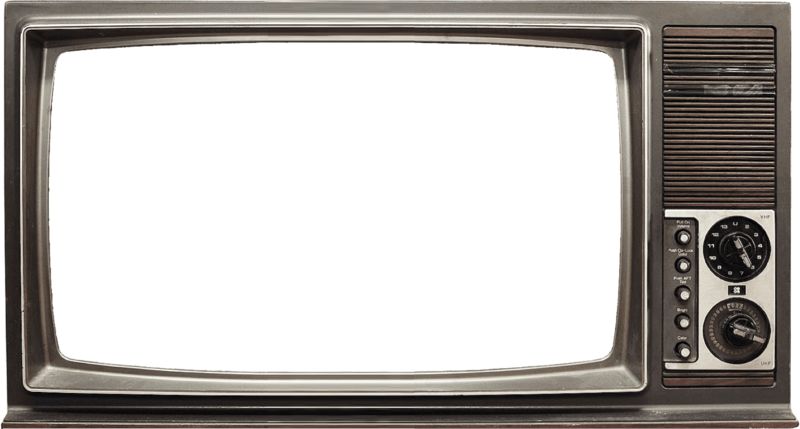
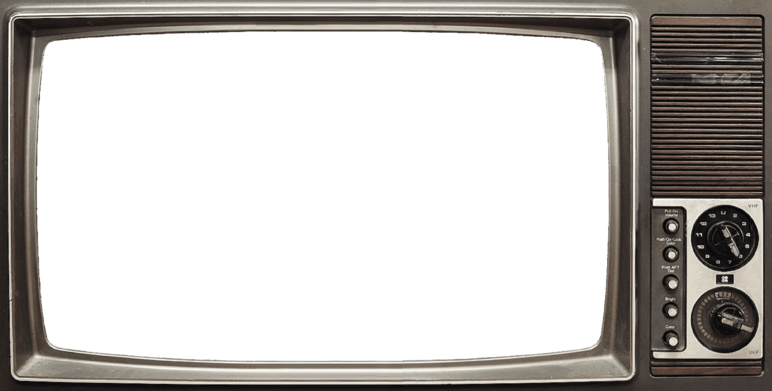
css adjustments

diff --git a/assets/javascript/app.js b/assets/javascript/app.js
@@ -52,7 +52,7 @@ quizMaterial = [
 
 var qIndex = -1;
 var correct = 0;
-var timer;
+var timer = 25;
 var timeInt;
 
 // FUNCTIONS
@@ -72,7 +72,7 @@ function nextQuestion() {
         $("#choices").empty();
         $("#q-num").html(qIndex+1);
         $("#question").html(quizMaterial[qIndex].question);
-        $("#time-panel").html("<span class='side-text' id='time-remaining'>10</span> sec");
+        $("#time-panel").html("<span class='side-text' id='time-remaining'>" + timer + "</span> sec");
 
         quizMaterial[qIndex].choices.forEach(function(value, i) {
             var newButton = $("<button type='button'>");
@@ -100,10 +100,10 @@ function decrement () {
 
     if (timer === 0) {
         clearInterval(timeInt);
-        $("#choices").html("<p class='giant'>Time's Up!</p><br>");
-        $("#time-panel").html();
-        $("#answer").html("<p>The correct answer is: " + quizMaterial[qIndex].choices[quizMaterial[qIndex].answer] + "</p>");
-        setTimeout(nextQuestion, 1000 * 4);
+        $("#time-panel").html("&nbsp;");
+        $("#choices").html("<p class='giant'>Time's Up! The answer:</p><br>");
+        $("#answer").html("<p class='giant' style='font-weight: bold'>" + quizMaterial[qIndex].choices[quizMaterial[qIndex].answer] + "</p>");
+        setTimeout(nextQuestion, 1000 * 6);
     }
 }
 
@@ -133,8 +133,8 @@ $(document).on("click", ".choiceButton", function () {
         $("#answer").html("<p class='giant'>Correct!</p>");
         $("#correct-panel").html(correct);
     } else {
-        $("#choices").html("<p class='giant'>Sorry, the answer is</p><br>");
-        $("#answer").html("<p class='giant'>" + quizMaterial[qIndex].choices[correctChoice] + "</p>");
+        $("#choices").html("<p class='giant'>Sorry, the answer is...</p><br>");
+        $("#answer").html("<p class='giant' style='font-weight: bold'>" + quizMaterial[qIndex].choices[correctChoice] + "</p>");
     }
 
     setTimeout(nextQuestion, 1000 * 4);

diff --git a/assets/css/style.css b/assets/css/style.css
@@ -1,5 +1,5 @@
 body {
-    background: #000000 url("../images/tv-wall1b.png") no-repeat fixed center;
+    background: #000000 url("../images/tv-wall1.png") no-repeat fixed center;
     background-size: cover;
     color: #ffffff;
     text-align: center;
@@ -10,6 +10,7 @@ h1 {
     font-size: 4em;
     font-family: 'Staatliches', cursive;
     display: inline-block;
+    margin-left: 20px;
 }
 
 .side-title {

diff --git a/index.html b/index.html
@@ -19,8 +19,8 @@
 
             <div class="col main">
                 <div class="row justify-content-center">
-                    <img src="assets/images/i-heart-tv.png" height=100px>
-                    <h1>TV LOVES YOU, HONEY</h1>
+                    <img src="assets/images/tv1.png" height=100px>
+                    <h1>TV LOVES YOU</h1>
                 </div>
                 <br>
 
